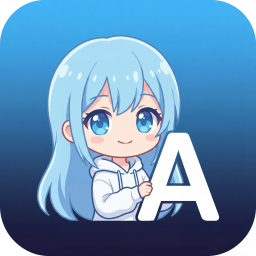
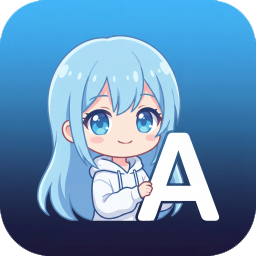
fix: Lovelace card resource registration + clean release notes — v0.4.4
- Fix "Custom element doesn't exist: anilist-card" by reading the Lovelace
  resource collection from hass.data[LOVELACE_DATA].resources instead of the
  non-existent "lovelace_resources" key; the resource was never auto-registered
- Graceful fallback with warning + manual-registration instructions when
  Lovelace storage is unavailable (YAML mode, older HA, etc.)
- Update logo (icon.png / icon@2x.png) in brand/ and docs/images/
- Use icon@2x.png in README and info.md for sharper Retina display
- Clean up CHANGELOG.md — shorter, direct, no marketing prose
- Clean up release notes body in release.yml — drop the redundant installation
  block (users are already in HACS/HA when they see the changelog)

diff --git a/custom_components/anilist/__init__.py b/custom_components/anilist/__init__.py
@@ -36,23 +36,65 @@ async def _register_card(hass: HomeAssistant) -> None:
         [StaticPathConfig("/anilist-card", str(CARD_DIR), False)]
     )
 
-    # Auto-register as a Lovelace resource so users don't have to
-    # This uses the lovelace resource storage collection
-    url = CARD_URL
-    resources = hass.data.get("lovelace_resources")
-    if resources is not None:
-        # Check if already registered
+    # Auto-register as a Lovelace resource so users don't have to.
+    # The correct key is LOVELACE_DATA (since HA 2024+), which holds a
+    # LovelaceData object with a .resources attribute. Older HA versions
+    # used a dict at hass.data["lovelace"].
+    try:
+        from homeassistant.components.lovelace.const import LOVELACE_DATA
+        lovelace_data = hass.data.get(LOVELACE_DATA)
+    except ImportError:
+        lovelace_data = hass.data.get("lovelace")
+
+    if lovelace_data is None:
+        _LOGGER.warning(
+            "Lovelace not available — add '%s' as a module resource manually "
+            "under Settings > Dashboards > Resources.",
+            CARD_URL,
+        )
+        return
+
+    # Modern HA: LovelaceData object with .resources attribute
+    # Older HA: plain dict with "resources" key
+    resources = getattr(lovelace_data, "resources", None)
+    if resources is None and isinstance(lovelace_data, dict):
+        resources = lovelace_data.get("resources")
+
+    if resources is None:
+        _LOGGER.warning(
+            "Lovelace resources storage not available (YAML mode?) — "
+            "add '%s' as a module resource manually.",
+            CARD_URL,
+        )
+        return
+
+    # Ensure the storage collection is loaded before we read from it
+    if hasattr(resources, "async_load") and not getattr(resources, "loaded", True):
+        try:
+            await resources.async_load()
+        except Exception as err:  # noqa: BLE001
+            _LOGGER.debug("Could not load resource collection: %s", err)
+
+    try:
+        # Check if already registered (avoid duplicates on reload)
         for item in resources.async_items():
-            if item.get("url") == url:
+            if item.get("url") == CARD_URL:
+                _LOGGER.debug("AniList card already registered as resource")
                 return
-        # Register as module resource
-        await resources.async_create_item({"res_type": "module", "url": url})
-        _LOGGER.debug("Registered AniList card as Lovelace resource: %s", url)
-    else:
-        _LOGGER.debug(
-            "Lovelace resources not available (YAML mode?). "
-            "Add '%s' as a module resource manually.",
-            url,
+
+        await resources.async_create_item(
+            {"res_type": "module", "url": CARD_URL}
+        )
+        _LOGGER.info(
+            "Registered AniList Lovelace card resource: %s (reload your browser)",
+            CARD_URL,
+        )
+    except Exception as err:  # noqa: BLE001
+        _LOGGER.warning(
+            "Could not auto-register card resource (%s) — "
+            "add '%s' manually under Settings > Dashboards > Resources.",
+            err,
+            CARD_URL,
         )
 
 

diff --git a/CHANGELOG.md b/CHANGELOG.md
@@ -1,157 +1,80 @@
 # Changelog
 
-All notable changes to this project will be documented in this file.
+## [0.4.4] - 2026-04-11
 
-The format is based on [Keep a Changelog](https://keepachangelog.com/en/1.1.0/),
-and this project adheres to [Semantic Versioning](https://semver.org/spec/v2.0.0.html).
+### Fixed
+- Card not loading with "Custom element doesn't exist: anilist-card" — Lovelace resource is now registered correctly on setup.
+- Fall back to a clear warning with manual-registration instructions if Lovelace storage is unavailable (YAML mode).
 
 ## [0.4.3] - 2026-04-11
 
 ### Added
-
-- **🎨 In-repo brand icons** — `icon.png` and `icon@2x.png` are now shipped in
-  `custom_components/anilist/brand/` and served via HA's new
-  [brands proxy API](https://developers.home-assistant.io/blog/2026/02/24/brands-proxy-api)
-- **Requires Home Assistant 2026.3.0 or later** to display the integration logo
-  on the integration card. Older HA versions still work, they just show the
-  default placeholder icon.
-
-### Removed
-
-- Abandoned the `home-assistant/brands` PR approach — as of HA 2026.3, the
-  `brands/` folder inside the custom integration is the canonical location
-  for brand images.
+- Integration logo shipped directly in the integration (requires HA 2026.3+).
 
 ## [0.4.2] - 2026-04-11
 
 ### Added
-
-- **🎨 Project logo** — cute chibi anime girl mascot with the letter "A"
-- **Home Assistant brands PR** submitted to
-  [home-assistant/brands#10116](https://github.com/home-assistant/brands/pull/10116)
-  — once merged, the integration card in HA will show the logo instead of
-  a broken image
-- **README hero** — centered logo + badges + tagline layout
-
-### Changed
-
-- Cleaned up old reference-style badge definitions in README
-- Wire `icon.png` into README and info.md for HACS / GitHub display
+- Project logo.
+- Centered logo and badges at the top of the README.
 
 ## [0.4.1] - 2026-04-11
 
 ### Added
-
-- **GitHub issue templates** — structured bug report and feature request forms
-  with pre-flight checklists, version fields, and area selectors
-- **CHANGELOG in release notes** — GitHub Releases now include the relevant
-  CHANGELOG section directly instead of just linking to the file
-- **Single unified CI workflow** — `release.yml` now runs validation, tests,
-  frontend build, and release in one pipeline (removed duplicate `validate.yml`)
+- GitHub issue templates for bug reports and feature requests.
+- Release notes now include the changelog directly.
+- Single unified CI workflow (validation, tests, build, release).
 
 ### Fixed
-
-- **Hassfest compliance** — removed invalid `homeassistant` key from
-  `manifest.json` (belongs in `hacs.json`) and sorted manifest keys
-- **Translation validation** — lowercased all `selector.*.options` keys in
-  `strings.json` and all 23 language files to match HA's `[a-z0-9-_]+` regex
-- **CI dependencies** — added `aiohttp` and `voluptuous` to the test install step
+- Hassfest manifest compliance: removed invalid `homeassistant` field, sorted keys.
+- Lowercased selector option keys in all 23 translation files.
+- Missing `aiohttp` / `voluptuous` in CI test dependencies.
 
 ### Changed
-
-- **Node.js 24 for CI actions** — set `FORCE_JAVASCRIPT_ACTIONS_TO_NODE24=true`
-  to eliminate Node.js 20 deprecation warnings
+- CI actions now run on Node.js 24.
 
 ## [0.4.0] - 2026-04-10
 
-First public beta release. This version addresses a comprehensive audit of the
-codebase and adds full internationalization across 23 languages.
+First public beta. Full audit pass and internationalization.
 
 ### Added
-
-- **🌍 23-language support** across backend, Lovelace card, and visual editor
-  - New languages: Spanish, French, Italian, Portuguese, Dutch, Polish, Swedish,
-    Danish, Norwegian, Finnish, Czech, Slovak, Romanian, Hungarian, Bulgarian,
-    Greek, Turkish, Ukrainian, Russian, Croatian, Japanese (+ existing English, German)
-- **📊 Automated test suite** — 123 pytest tests covering API, coordinator,
-  sensors, WebSocket API, and config flow
-- **🔐 WebSocket API permission gating** — private endpoints (`watchlist`,
-  `manga`, `profile`) now require HA admin
-- **📄 Season pagination** — fetches all season anime, not just the first 50
-- **⚙ `excluded_genres` option** in the options flow with free-form multi-select
-- **🔁 Improved reauth flow** — verifies same AniList account and updates entry
-  in place instead of creating a new one
-- **🖊 Full editor i18n** — all visual editor labels now translatable
-- **✅ CI frontend verification** — validate and release workflows now run
-  `tsc --noEmit`, `npm run build`, and `git diff --exit-code` to prevent
-  shipping stale bundles
-- **CHANGELOG.md** — this file
+- Support for 23 languages across backend, card, and editor (en, de, ja, es, fr, it, pt, nl, pl, sv, da, nb, fi, cs, sk, ro, hu, bg, el, tr, uk, ru, hr).
+- Automated test suite (123 pytest tests).
+- Admin-only gate on WebSocket endpoints for private data (`watchlist`, `manga`, `profile`).
+- Season pagination — all season anime, not just the first 50.
+- `excluded_genres` option in the options flow.
+- Reauth flow now verifies the same AniList account and updates the entry in place.
+- `REPEATING` status in the editor, tab labels, and all translations.
 
 ### Changed
-
-- **Bundle minified** via Rollup terser — ~27% size reduction (116 KB → 85 KB)
-- **Score sensors always numeric** — smiley mode moved to extra attribute to
-  keep `state_class=measurement` valid
-- **Manga calendar timezone** now uses HA's `dt_util` helpers instead of
-  host-local naive dates
-- **`media_formats`** option now applies to both airing schedule and season
-  data (previously only airing)
-- **Frontend fallback** is now entry-aware: when `entry_id` is configured,
-  the card no longer scans unrelated sensor attributes
-- **HTTP 401** from AniList is now treated as `AniListAuthError` (triggers
-  reauth) instead of a generic network error
-- **OAuth token exchange** now uses `async with` context manager
-- **`hass.data[DOMAIN]`** is cleaned up on last entry unload
+- Minified card bundle (~27% smaller).
+- Score sensors stay numeric; smiley mode moved to an extra attribute.
+- Manga calendar now uses HA's timezone helpers.
+- `media_formats` option also filters season data.
+- Card fallback is entry-aware — no more scanning unrelated sensors when `entry_id` is set.
+- HTTP 401 from AniList now triggers reauth instead of a generic error.
 
 ### Fixed
-
-- **📡 Broken `anilist_episode_airing` event** — the lookback window now uses
-  `last_successful_refresh + update_interval + 30s` so episodes that air
-  between polls are no longer missed
-- **Stale WebSocket cache** on failure — per-view cache is cleared, preventing
-  outdated data from persisting after WS errors
-- **WebSocket admin bypass** via card entity fallback — private views no longer
-  fall back to entity attributes when WS is denied
-- **Missing `siteUrl`** in `QUERY_VIEWER` — `ws_profile` now returns the
-  actual viewer profile URL
-- **Dead card options removed** — `score_display`, `show_next_season`, and
-  `link_target: ha_more_info` have been deprecated (use `score_position` and
-  `score_source` instead)
-- **Status tab initialization** — auto-selects first configured status when
-  default `CURRENT` is not in the visible list
-- **`REPEATING` status** added to editor, card tab labels, and all 23 languages
-- **Retry-after kwarg** removed from `UpdateFailed` for compatibility with
-  all supported HA versions
-- **Manifest.json** now declares `homeassistant: 2025.2.0` minimum version
-- **Docs drift** — `docs/automations.md` now references the correct sensor
-  attributes (`airing_schedule`, `watchlist`, `manga_list`, `season_anime`)
-
-### Accessibility
-
-- **`aria-label`** on search input
-- **`role="button"` + `tabindex="0"` + keyboard handlers** on all clickable
-  card items (Enter/Space support for screen readers)
+- Broken `anilist_episode_airing` event — the lookback window now covers the gap between polls.
+- Stale WebSocket cache on failure.
+- Profile view missing `siteUrl` in the viewer query.
+- Status tabs auto-select the first configured status when `CURRENT` isn't visible.
 
 ### Security
-
-- **WebSocket API admin gate** — all private endpoints (`anilist/watchlist`,
-  `anilist/manga`, `anilist/profile`) are now decorated with
-  `@websocket_api.require_admin`. Previously, any authenticated HA user
-  could read another user's private AniList data. **[CVE-style fix]**
+- WebSocket API `watchlist`, `manga`, and `profile` endpoints are now admin-only. Previously any authenticated HA user could read private AniList data.
 
 ## [0.3.0] - 2026-04-09
 
-- Card v3 — HD covers, layout modes, WebSocket API, version bump
+- Card v3: HD covers, grid/list layout modes, WebSocket API.
 
 ## [0.2.0] - 2026-04-09
 
-- Card v2, visual editor, HACS release readiness, full documentation
+- Card v2: visual editor, HACS release readiness.
 
 ## [0.1.0] - 2026-04-09
 
-- Initial AniList integration with OAuth2 flow
-- Phases 4–8: Manga, Stats, Events, Season, Lovelace Card
+- Initial release: OAuth2, sensors, calendars, Lovelace card.
 
+[0.4.4]: https://github.com/S1ckn3z/ha-anilist.co/releases/tag/v0.4.4
 [0.4.3]: https://github.com/S1ckn3z/ha-anilist.co/releases/tag/v0.4.3
 [0.4.2]: https://github.com/S1ckn3z/ha-anilist.co/releases/tag/v0.4.2
 [0.4.1]: https://github.com/S1ckn3z/ha-anilist.co/releases/tag/v0.4.1

diff --git a/info.md b/info.md
@@ -1,5 +1,5 @@
 <p align="center">
-  <img src="https://raw.githubusercontent.com/S1ckn3z/ha-anilist.co/main/docs/images/icon.png" alt="AniList" width="160">
+  <img src="https://raw.githubusercontent.com/S1ckn3z/ha-anilist.co/main/docs/images/icon@2x.png" alt="AniList" width="180">
 </p>
 
 # 🎌 AniList for Home Assistant

diff --git a/README.md b/README.md
@@ -1,5 +1,5 @@
 <p align="center">
-  <img src="docs/images/icon.png" alt="AniList for Home Assistant" width="180">
+  <img src="docs/images/icon@2x.png" alt="AniList for Home Assistant" width="200">
 </p>
 
 <h1 align="center">🎌 AniList for Home Assistant</h1>
